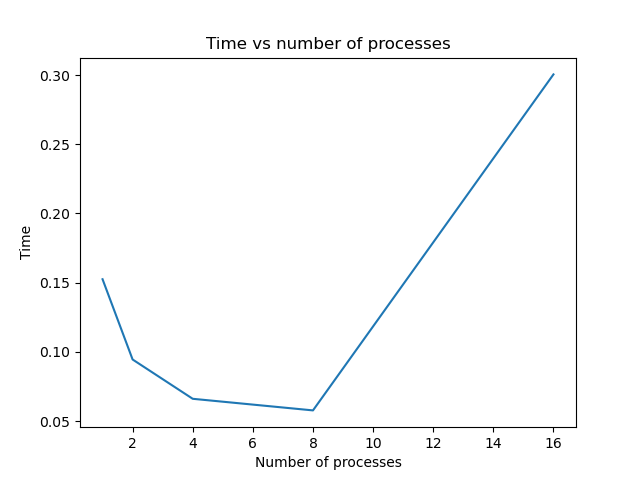
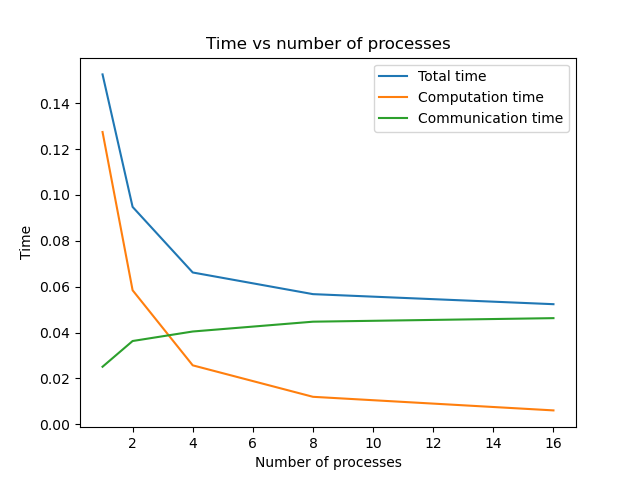
bucket_sort

diff --git a/ex1/bucket_sort.cpp b/ex1/bucket_sort.cpp
@@ -8,8 +8,9 @@
 
 using namespace std;
 
-void bucket_sort(vector<float> &a, int m)
+double bucket_sort(vector<float> &a, int m)
 {
+    double comm_time = 0.0;
 
     int world_size, world_rank;
     MPI_Comm_size(MPI_COMM_WORLD, &world_size);
@@ -23,6 +24,7 @@ void bucket_sort(vector<float> &a, int m)
     int bix_end   = (world_rank + 1) * mp;
     if (world_rank == 0)
     {
+        double t0 = MPI_Wtime();
         for (auto ai : a)
         {
             assert(0 <= ai and ai < 1);
@@ -36,6 +38,8 @@ void bucket_sort(vector<float> &a, int m)
         float x = -1;
         for (int p = 1; p < world_size; ++p)
             MPI_Send(&x, 1, MPI_FLOAT, p, 0, MPI_COMM_WORLD);
+        double t1 = MPI_Wtime();
+        comm_time += t1 - t0;
     }
     else
     {
@@ -66,12 +70,13 @@ void bucket_sort(vector<float> &a, int m)
         for (int i = 0; i < len; ++i)
             a[i] = local_a[i];
 
+        double t0 = MPI_Wtime();
         for (int p = 1; p < world_size; ++p)
         {
             int plen;
+
             MPI_Recv(
                 &plen, 1, MPI_INT, p, 0, MPI_COMM_WORLD, MPI_STATUS_IGNORE);
-
             MPI_Recv(a.data() + len,
                      plen,
                      MPI_FLOAT,
@@ -81,13 +86,17 @@ void bucket_sort(vector<float> &a, int m)
                      MPI_STATUS_IGNORE);
             len += plen;
         }
+        double t1 = MPI_Wtime();
+        comm_time += t1 - t0;
     }
     else
     {
         int len = local_a.size();
+
         MPI_Send(&len, 1, MPI_INT, 0, 0, MPI_COMM_WORLD);
         MPI_Send(local_a.data(), len, MPI_FLOAT, 0, 0, MPI_COMM_WORLD);
     }
+    return comm_time;
 }
 
 int main(int argc, char **argv)
@@ -102,15 +111,19 @@ int main(int argc, char **argv)
     vector<float> a;
     if (world_rank == 0)
         for (int i = 0; i < n; ++i)
-            a.push_back((float)rand() / (float)RAND_MAX);
+            a.push_back(rand() / (RAND_MAX + 1.0));
 
-    double t1 = MPI_Wtime();
-    bucket_sort(a, world_size * (int)sqrt(n));
-    double t2 = MPI_Wtime();
+    double t1        = MPI_Wtime();
+    double comm_time = bucket_sort(a, world_size * (int)sqrt(n));
+    double t2        = MPI_Wtime();
+    double comp_time = (t2 - t1) - comm_time;
+    assert(comp_time >= 0.0);
 
     if (world_rank == 0)
     {
         printf("TIME: %f\n", t2 - t1);
+        printf("COMP: %f\n", comp_time);
+        printf("COMM: %f\n", comm_time);
     }
 
     MPI_Finalize();

diff --git a/ex1/measure_bucket.py b/ex1/measure_bucket.py
@@ -3,24 +3,31 @@ from subprocess import check_output
 
 TESTS = 1
 P_TESTS = [1, 2, 4, 8, 16]
-COMMAND = "mpirun --mca opal_warn_on_missing_libcuda 0 -np {0} ./bucket_sort.out"
+COMMAND = "mpirun --mca opal_warn_on_missing_libcuda 0 -np {0} ./bucket_sort"
 
 
 def measure_time(p):
     total = 0.0
+    comp = 0.0
+    comm = 0.0
 
     for i in range(TESTS):
         out = check_output(COMMAND.format(p).split()).decode("utf-8")
-        total += float(out.split()[1])
+        lines = out.splitlines()
+        total += float(out[0].split()[1])
+        comp += float(out[1].split()[1])
+        comm += float(out[2].split()[1])
 
     total /= TESTS
-    return total
+    comp /= TESTS
+    comm /= TESTS
+    return total, comp, comm
 
 
 def main():
     for p in P_TESTS:
-        test = measure_time(p)
-        print(f"{p}, {test}")
+        total, comp, comm = measure_time(p)
+        print(f"{p}, {total}, {comp}, {comm}")
 
 
 if __name__ == "__main__":

diff --git a/ex1/plot_bucket.py b/ex1/plot_bucket.py
@@ -1,10 +1,26 @@
 import matplotlib.pyplot as plt
 import numpy as np
+import csv
 
-x, y = np.loadtxt('data.csv', delimiter=',', unpack=True)
-plt.plot(x, y)
+p = []
+total = []
+comp = []
+comm = []
+
+with open('data.csv') as f:
+    rows = list(csv.reader(f, delimiter=','))
+    p = [int(row[0]) for row in rows]
+    total = [float(row[1]) for row in rows]
+    comp = [float(row[2]) for row in rows]
+    comm = [float(row[3]) for row in rows]
+
+print(p, total, comp, comm)
+plt.plot(p, total, label='Total time')
+plt.plot(p, comp, label='Computation time')
+plt.plot(p, comm, label='Communication time')
 
 plt.xlabel('Number of processes')
 plt.ylabel('Time')
 plt.title('Time vs number of processes')
+plt.legend()
 plt.savefig('bucket.png')
